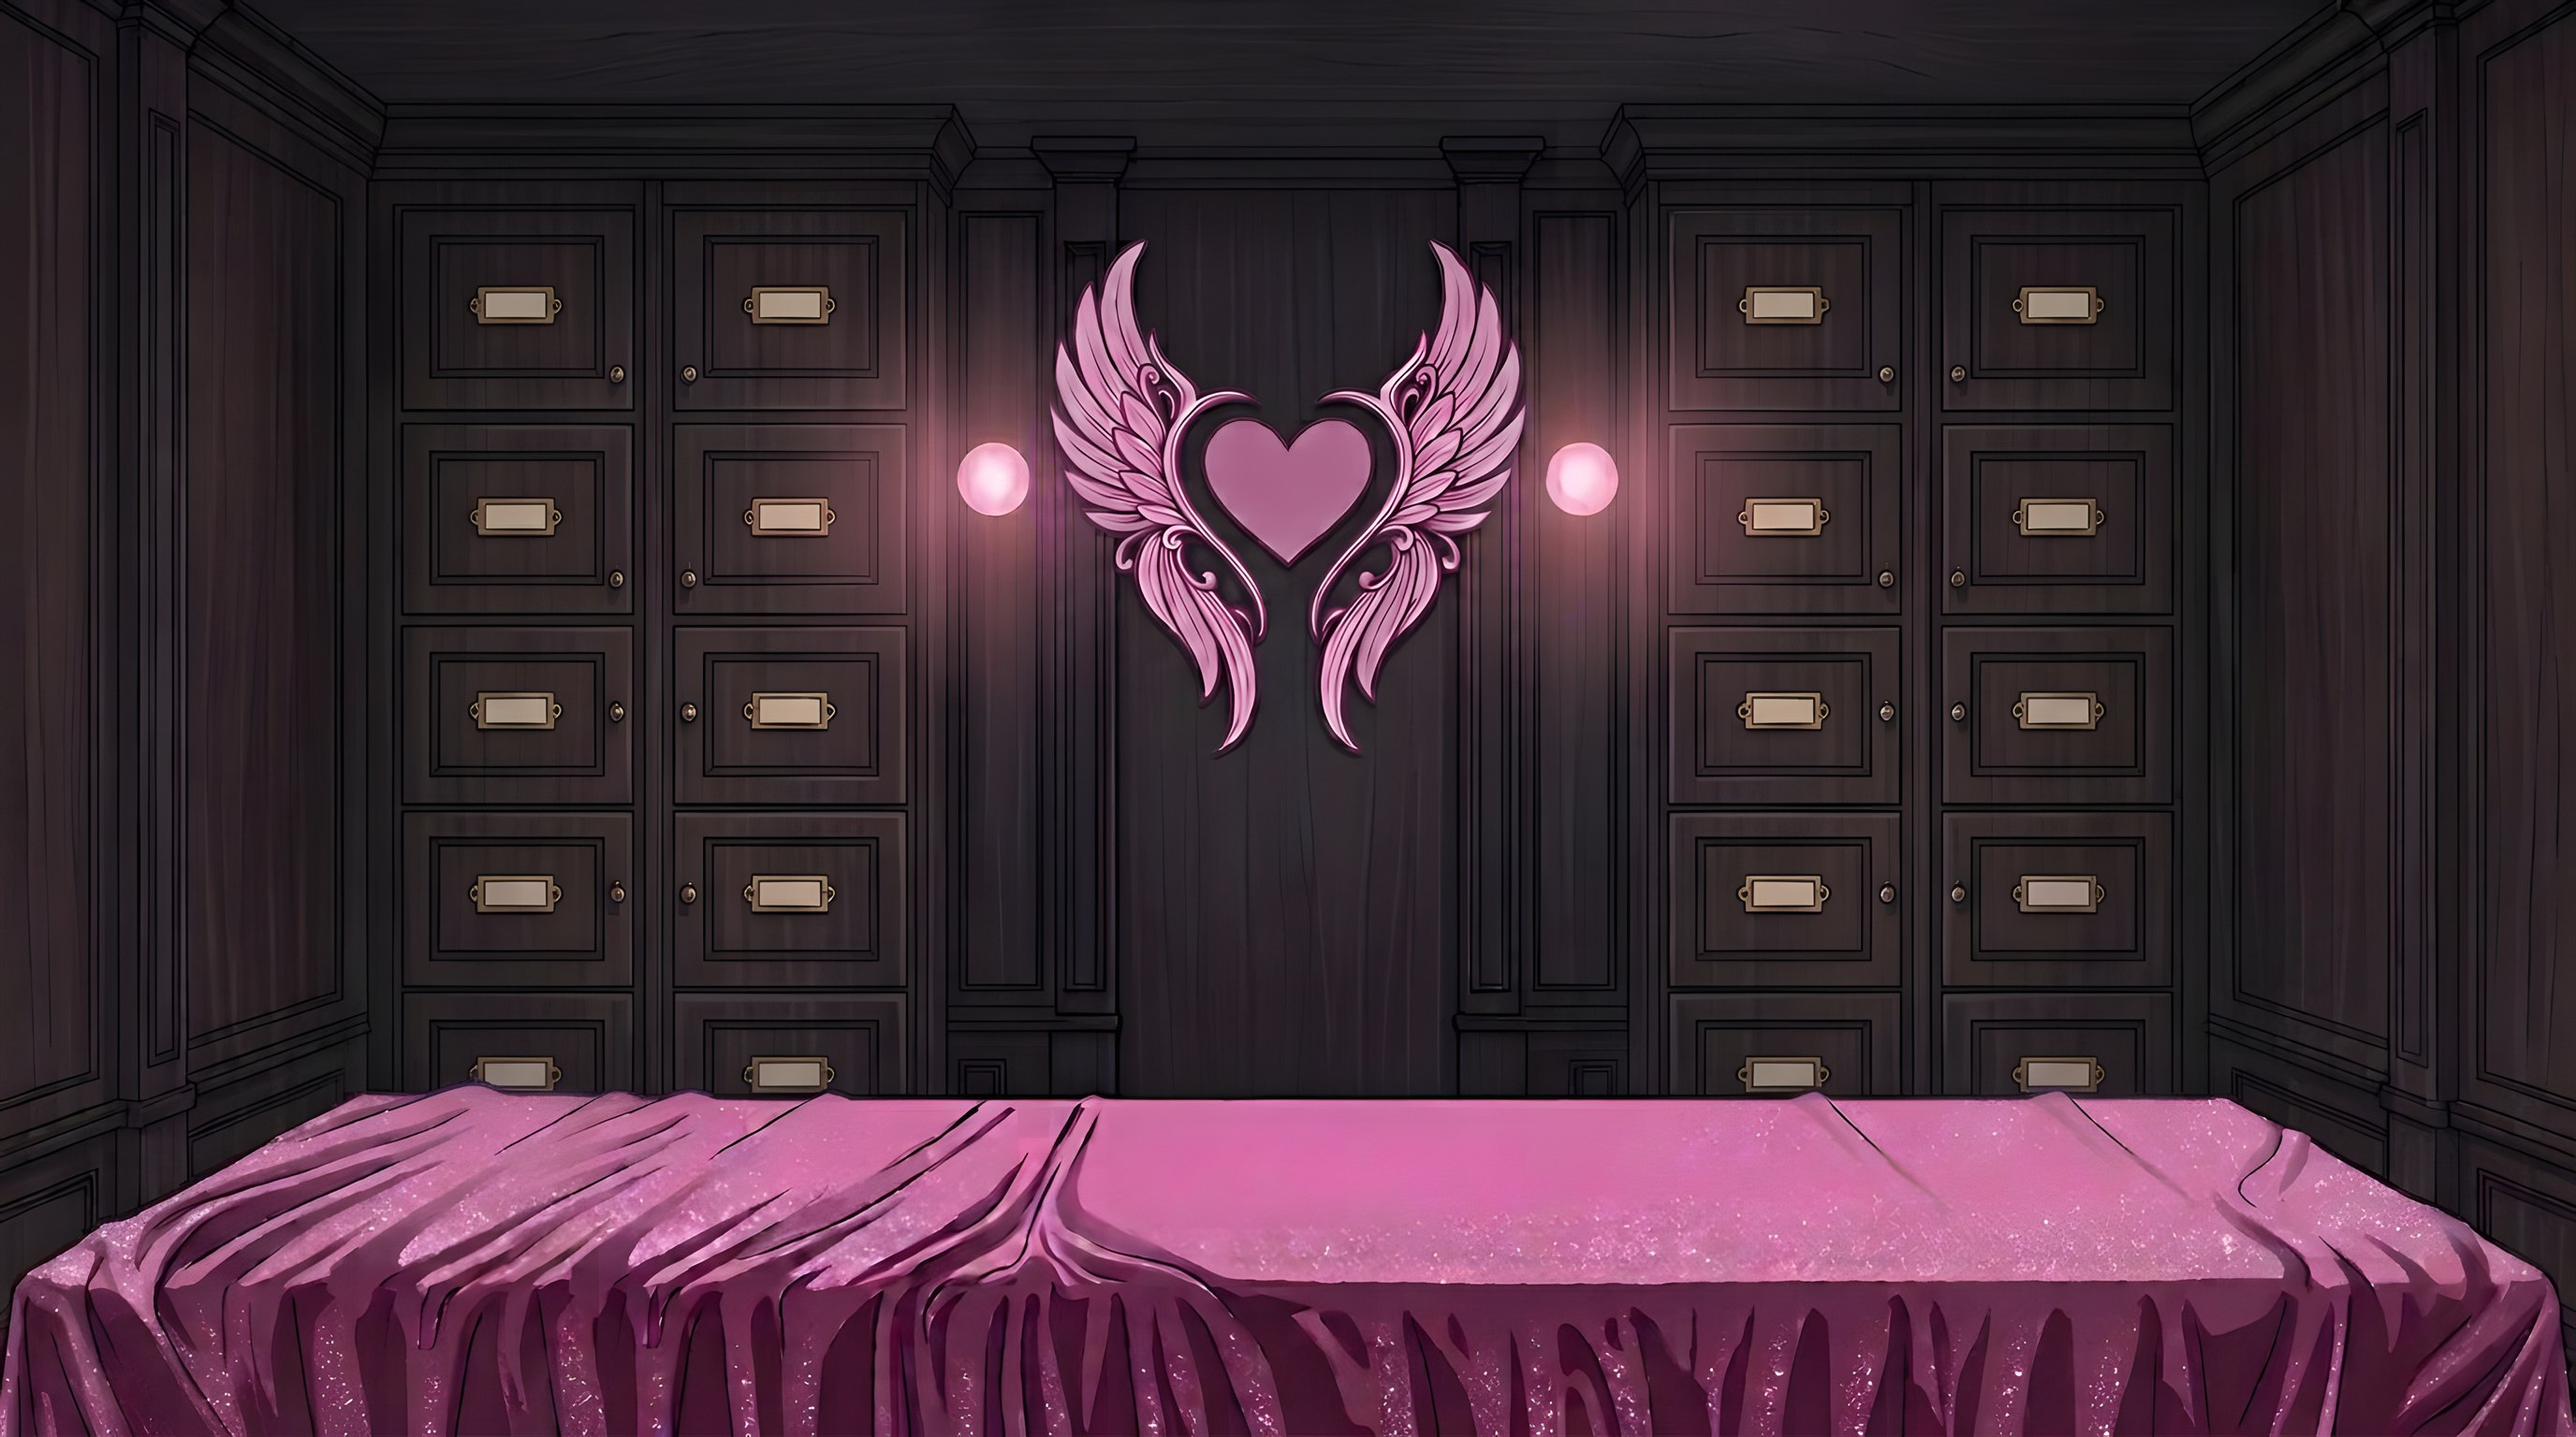
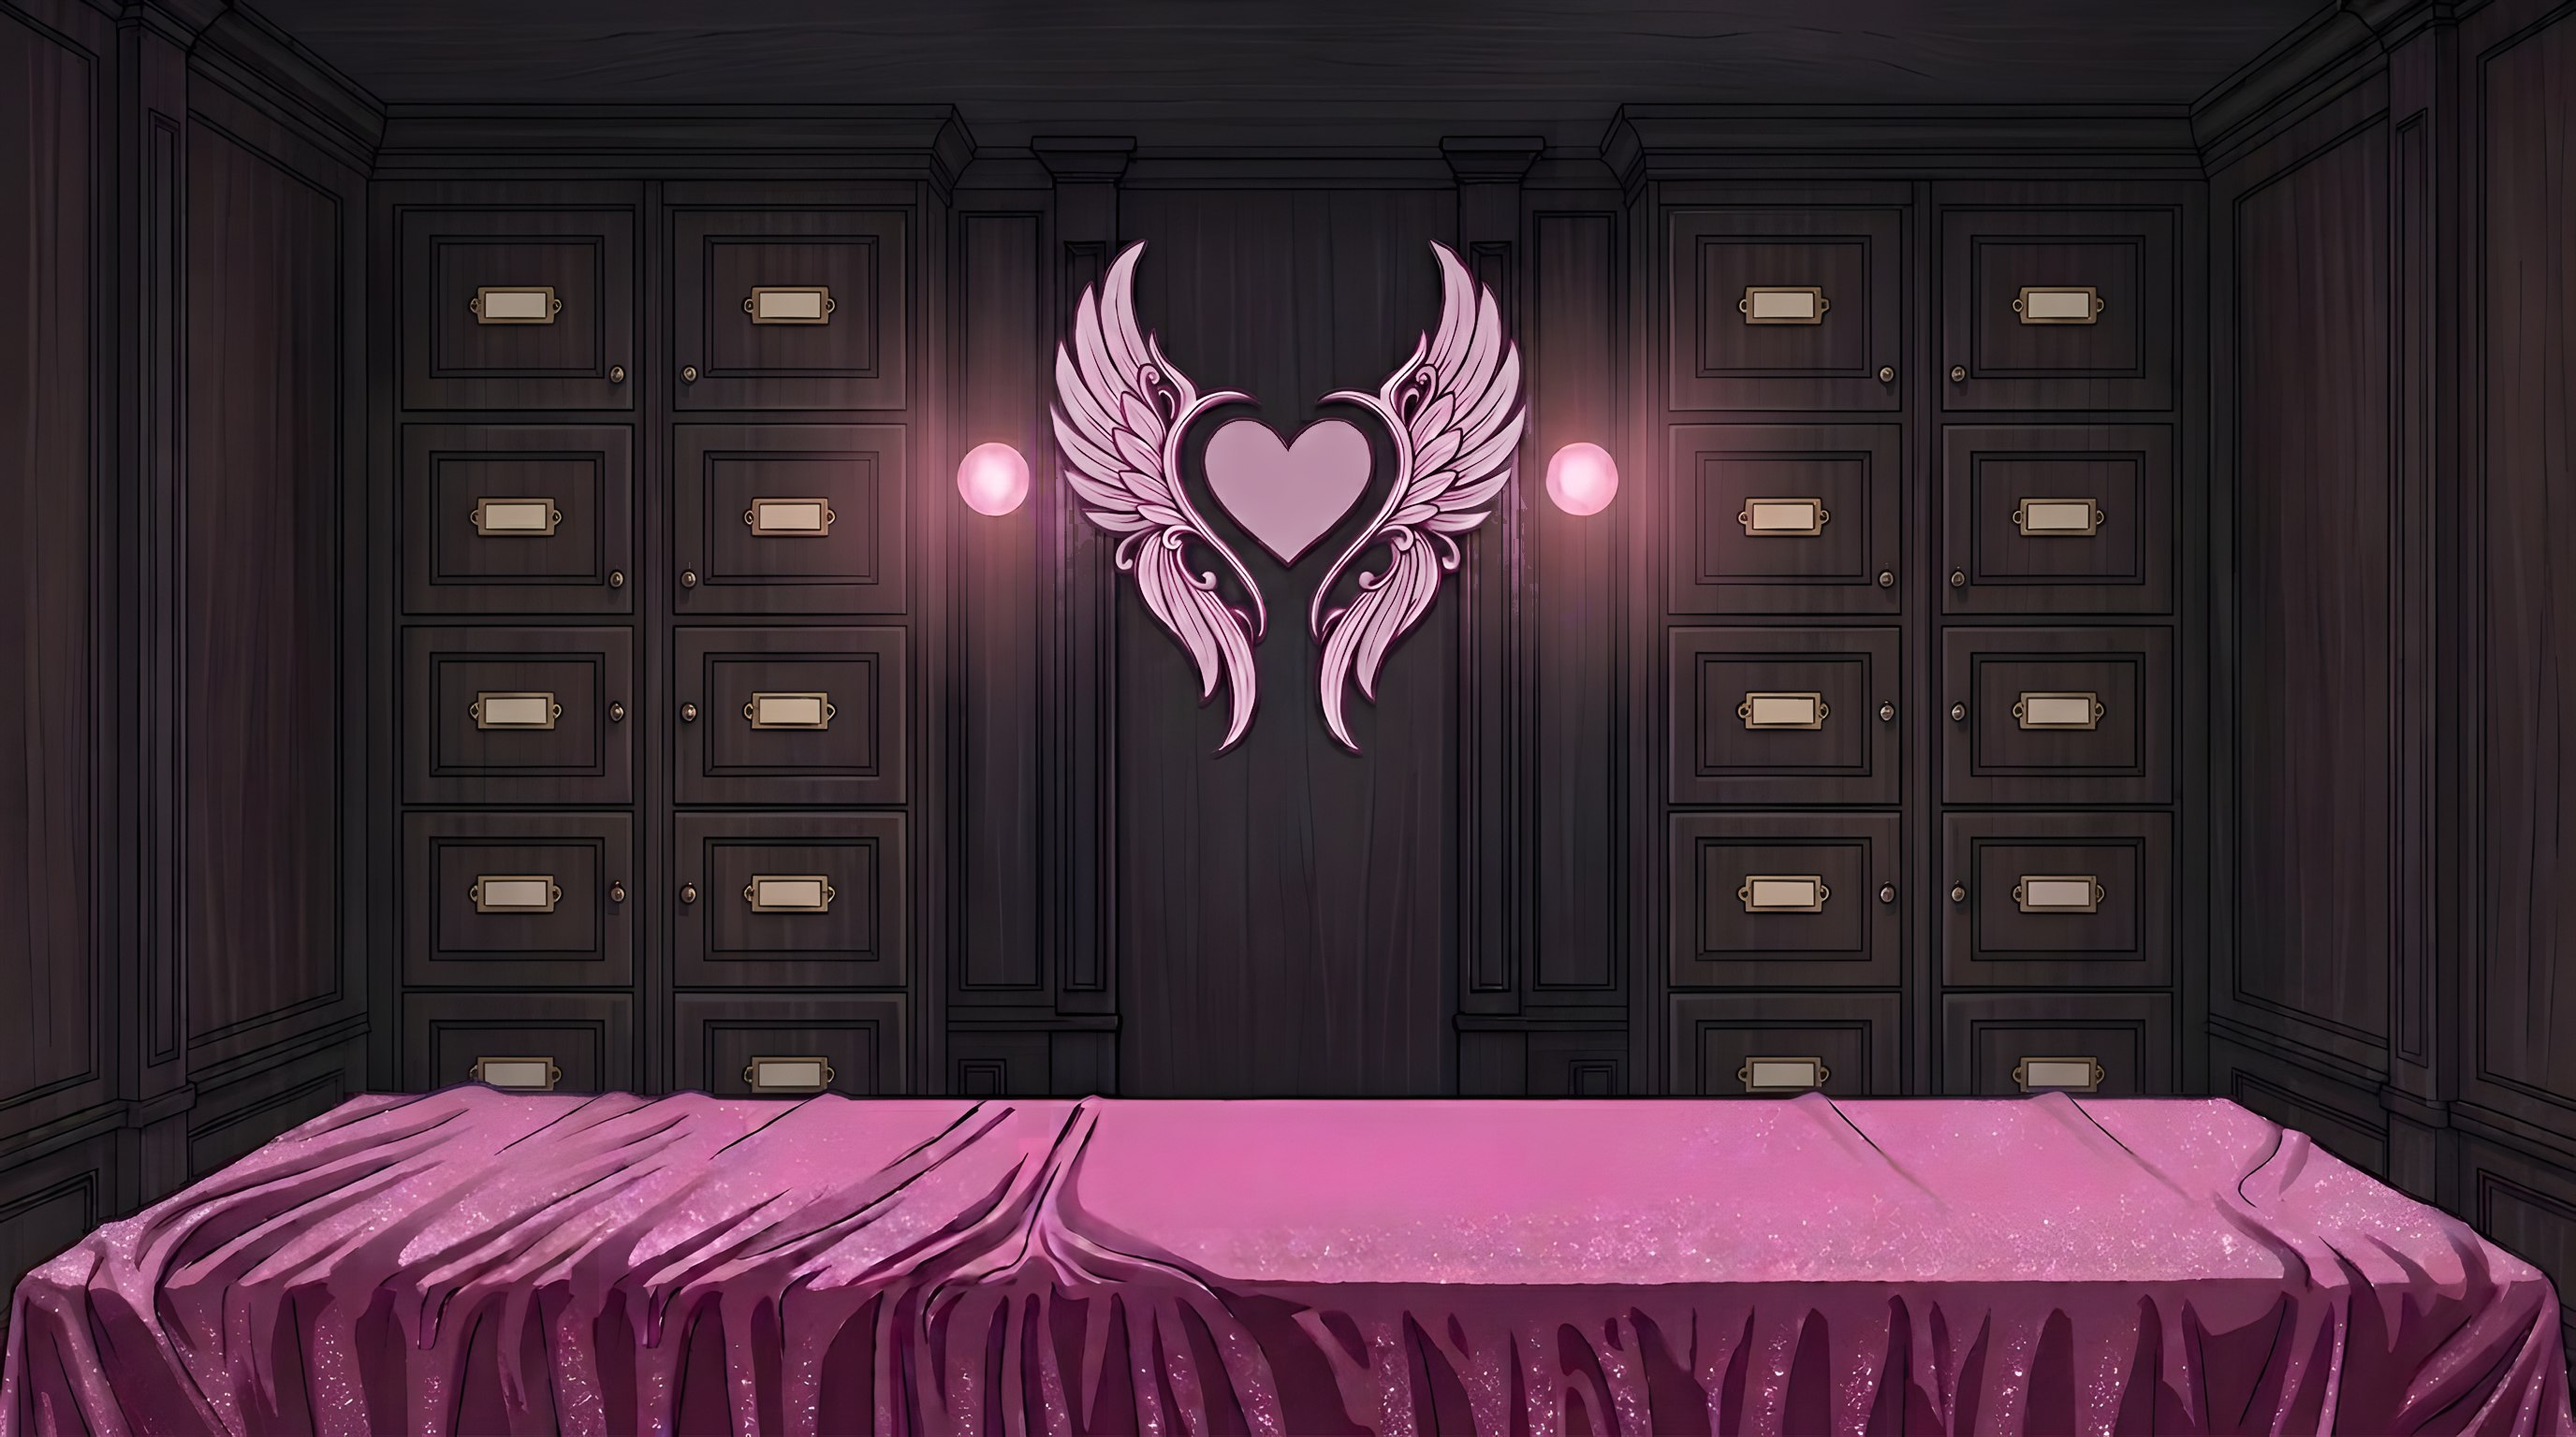
A short pause (1.1s) between the day card fading and the mood line coming up; the wall's winged heart a paler pink; the notification is a soft, clear two-note glass chime (C6 then G6, pure tones, gentle start, no sparkle)

Changed region(s): [[0.4062, 0.1875, 0.5938, 0.5]]

diff --git a/js/sound.js b/js/sound.js
@@ -80,15 +80,16 @@ function playDoorClose(){const ctx=audio();if(!ctx)return;const t=ctx.currentTim
   const l=k+.05,c=ctx.createBufferSource(),cb=ctx.createBiquadFilter(),cg=ctx.createGain();c.buffer=noiseBuffer(ctx,.015);
   cb.type='bandpass';cb.frequency.value=4200;cb.Q.value=4;cg.gain.setValueAtTime(.12,l);cg.gain.exponentialRampToValueAtTime(0.0001,l+.015);
   c.connect(cb).connect(cg).connect(ctx.destination);c.start(l)}
-/* Something new on the computer (an email, the night's reviews): a bright, glassy "ti-ring!". A short high "ti", then a
-   higher "ring" that rings out, made of two tones a few Hz apart so it shimmers, with a faint sparkle above. */
-function chimeNote(ctx,at,f,dur,vol,shimmer){
-  [[1,1,dur],[2,.28,dur*.45],[3,.08,.12]].forEach(([r,v,dec])=>{const o=ctx.createOscillator(),g=ctx.createGain();o.type='sine';o.frequency.value=f*r;
-    g.gain.setValueAtTime(0.0001,at);g.gain.exponentialRampToValueAtTime(vol*v,at+.004);g.gain.exponentialRampToValueAtTime(0.0001,at+dec);
-    o.connect(g).connect(ctx.destination);o.start(at);o.stop(at+dec+.05)});
-  if(shimmer){const o=ctx.createOscillator(),g=ctx.createGain();o.type='sine';o.frequency.value=f+shimmer;
-    g.gain.setValueAtTime(0.0001,at);g.gain.exponentialRampToValueAtTime(vol*.45,at+.006);g.gain.exponentialRampToValueAtTime(0.0001,at+dur*.9);
-    o.connect(g).connect(ctx.destination);o.start(at);o.stop(at+dur)}}
+/* Something new on the computer (an email, the night's reviews): a soft, clear "ti-ring", like a small glass bell.
+   Two pure tones a fifth apart (C6, then G6), each with only a whisper of its octave above, a gentle start rather than a
+   click, and a lowpass to take off any edge. The second rings a little longer, with a faint twin a couple of Hz off so it
+   breathes. */
+function chimeNote(ctx,at,f,dur,vol,out){
+  [[1,1,dur],[2,.1,dur*.35]].forEach(([r,v,dec])=>{const o=ctx.createOscillator(),g=ctx.createGain();o.type='sine';o.frequency.value=f*r;
+    g.gain.setValueAtTime(0.0001,at);g.gain.exponentialRampToValueAtTime(vol*v,at+.015);g.gain.exponentialRampToValueAtTime(0.0001,at+dec);
+    o.connect(g).connect(out);o.start(at);o.stop(at+dec+.05)})}
 function playNotify(){const ctx=audio();if(!ctx)return;const t=ctx.currentTime+.02;
-  chimeNote(ctx,t,1568,.32,.11,0);           /* ti (G6), short */
-  chimeNote(ctx,t+.1,2093,1.1,.11,4)}         /* ring (C7), ringing out */
+  const lp=ctx.createBiquadFilter();lp.type='lowpass';lp.frequency.value=3500;lp.Q.value=.5;lp.connect(ctx.destination);
+  chimeNote(ctx,t,1046.5,.55,.09,lp);         /* ti (C6) */
+  chimeNote(ctx,t+.14,1568,1.3,.085,lp);      /* ring (G6), ringing out */
+  chimeNote(ctx,t+.14,1570,1.1,.03,lp)}       /* its faint twin */

diff --git a/js/scene.js b/js/scene.js
@@ -77,13 +77,13 @@ const NUM_WORDS=['Zero','One','Two','Three','Four','Five','Six','Seven','Eight',
 const numWord=n=>n<20?NUM_WORDS[n]:n<100?TENS_WORDS[Math.floor(n/10)]+(n%10?'-'+NUM_WORDS[n%10]:''):String(n);
 function showDawn(){const T=today();dawnUntil=Date.now()+DAWN_MS;
   $('#dayCard').innerHTML=`<span class="dc-title"><i class="dc-rule"></i>Day ${numWord(S.day)}<i class="dc-rule"></i></span><small>${esc(T.weekday)}${T.sabbat?' \u2726 '+esc(T.sabbat):''}</small>`;$('#dayCard').classList.add('on');
-  render();setTimeout(()=>{$('#dayCard').classList.remove('on');render()},DAWN_MS)}
+  render();setTimeout(()=>{$('#dayCard').classList.remove('on');render()},DAWN_MS);setTimeout(render,DAWN_MS+AFTER_DAWN_MS)}
 /* The hour is not shown as a label; the background shows it. A quiet hour's mood line runs along the bottom
    of the scene like a film subtitle. */
 function renderScene(){renderAura();renderCustomer();setBackground(Date.now()<dawnUntil?'Dawn':HOURS[S.h]);
   const v=currentVisitor(),note=$('#sceneNote'),av=v&&v.key&&(!(v.tales||[]).length||v.newsDone)?visitByKey(v.key):null;
   const thinking=!!av&&av.kind==='advice';  /* while a customer waits for advice, the witch's own thought runs as the subtitle */
-  if(!thinking&&(v||S.parting)||Date.now()<dawnUntil||$('#dayEnd').classList.contains('open')){note.hidden=true;return}
+  if(!thinking&&(v||S.parting)||Date.now()<dawnUntil+AFTER_DAWN_MS||$('#dayEnd').classList.contains('open')){note.hidden=true;return}
   note.dataset.thought=thinking?'1':'';if(!thinking)note.style.animation='';  /* a thought waits for the customer's words (see typeBalloon) */
   const line=thinking?adviceThought(av):moodLine();if(note.hidden||note.textContent!==line){note.textContent=line;note.hidden=false;note.classList.remove('in');void note.offsetWidth;note.classList.add('in')}}
 /* The bell brings the next customer, and only the bell does: someone due this hour comes straight in; otherwise time moves

diff --git a/js/config.js b/js/config.js
@@ -13,6 +13,7 @@ const PROTOTYPE_TOOLS = true;
 
 /* How long the dawn card ("Day 2, Sunday") stays before the morning light comes in, in ms. */
 const DAWN_MS = 1800;
+const AFTER_DAWN_MS = 1100;  /* after the day card fades, a short pause before the mood line comes up at the bottom */
 
 /* Image files. Paths are relative to index.html. */
 /* How tall each ingredient stands, as a share of a big potion bottle (1 = about 20cm), so a sugar packet is not as big

diff --git a/DESIGN_NOTES.md b/DESIGN_NOTES.md
@@ -98,7 +98,7 @@ On the counter, every object glows on hover and does something:
 - Window view as its own layer so it can change with hour and season.
 - Remove brand logos (the computer's Apple logo). Aim for 1920×1080 or larger.
 - Tab icon (favicon): the My Shop logo, the flat pink winged heart (assets/scene/favicon.png, 128px square, made from logo-flat.png).
-- Workroom wall: the winged heart above the altar was lilac; its colour was shifted to the shop's pink (the same drawing and shading, only the hue moved toward the My Shop logo's pink and a little richer). The lamps and the wood are untouched.
+- Workroom wall: the winged heart above the altar was lilac; its colour was shifted to a soft, pale pink (the same drawing and shading; the hue moved toward the My Shop logo's pink, then lightened). The lamps and the wood are untouched.
 - Interface look: clean and cozy. Cream panels with soft shadows (no glows), thin solid lines, rounded corners, deep plum text and one fuchsia pink accent (#D9559E, with #B03A7E for keyword text so it reads on cream; chosen to stand out for notifications too; main buttons, selected tabs, keywords, badges; it was a berry pink, then lilac, then deep teal, then midnight blue, then cornflower blue, then coral, each changed for not looking right); twilight-sky page with small stars, hearts around window titles. Fonts: Cormorant Garamond (serif) for titles, names and book entries; Nunito for reading text and, bolder, for buttons and labels; Cormorant Garamond italic, spelled out between two thin pink rules, for the day card at dawn ("Day Twenty-One", with the weekday and festival in small capitals below; it was Great Vibes script); Caveat for handwriting (the diary, the parcel tag); Courier Prime on receipts, which the till prints; IM Fell English for the ink on the cabinet labels. Dark mode is the same look at night.
 
 ## Festival backgrounds
